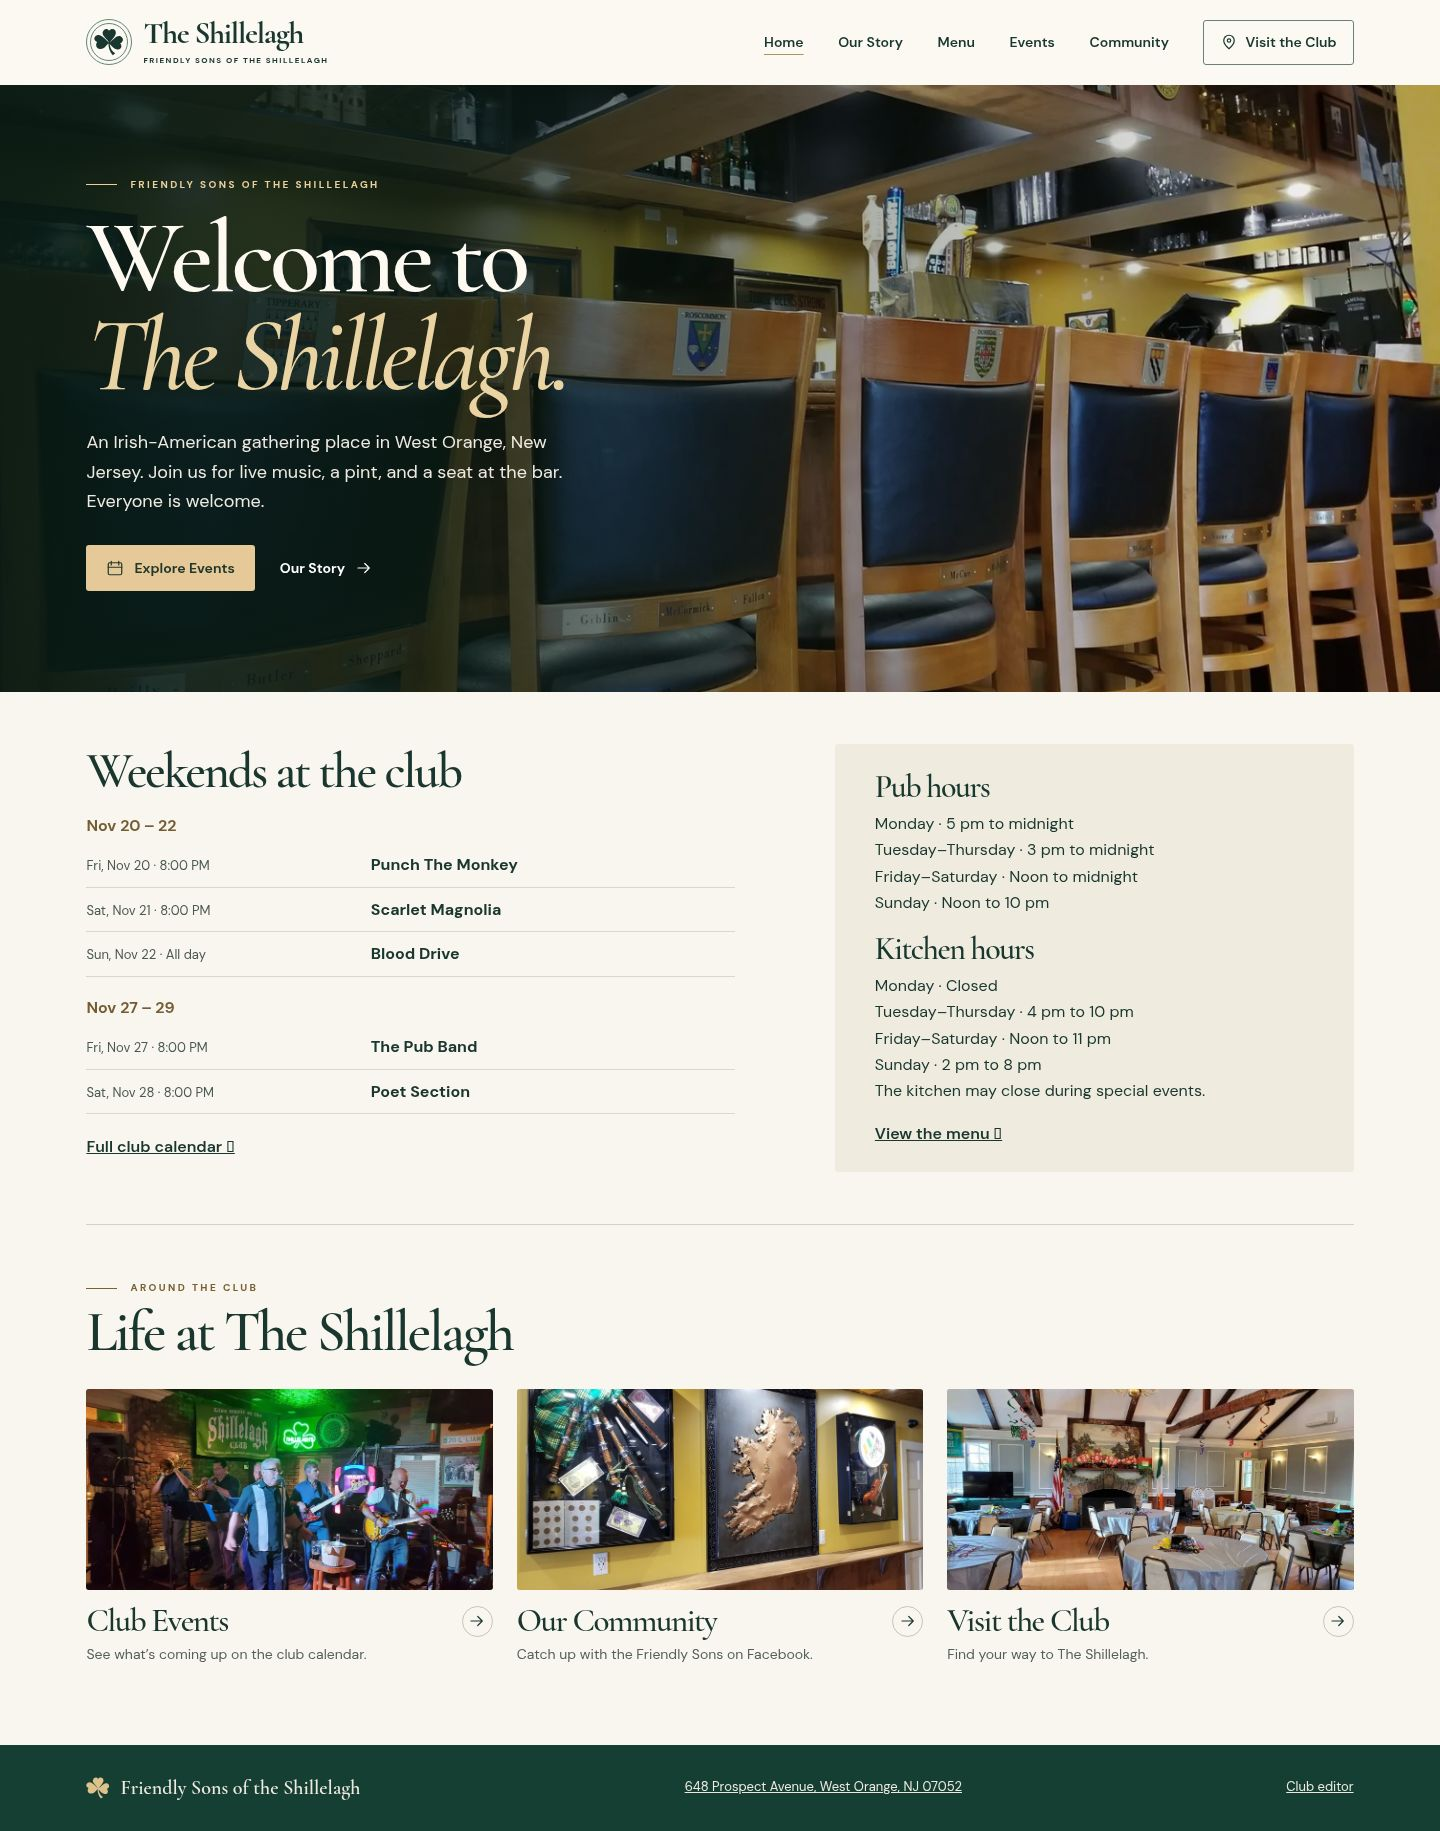
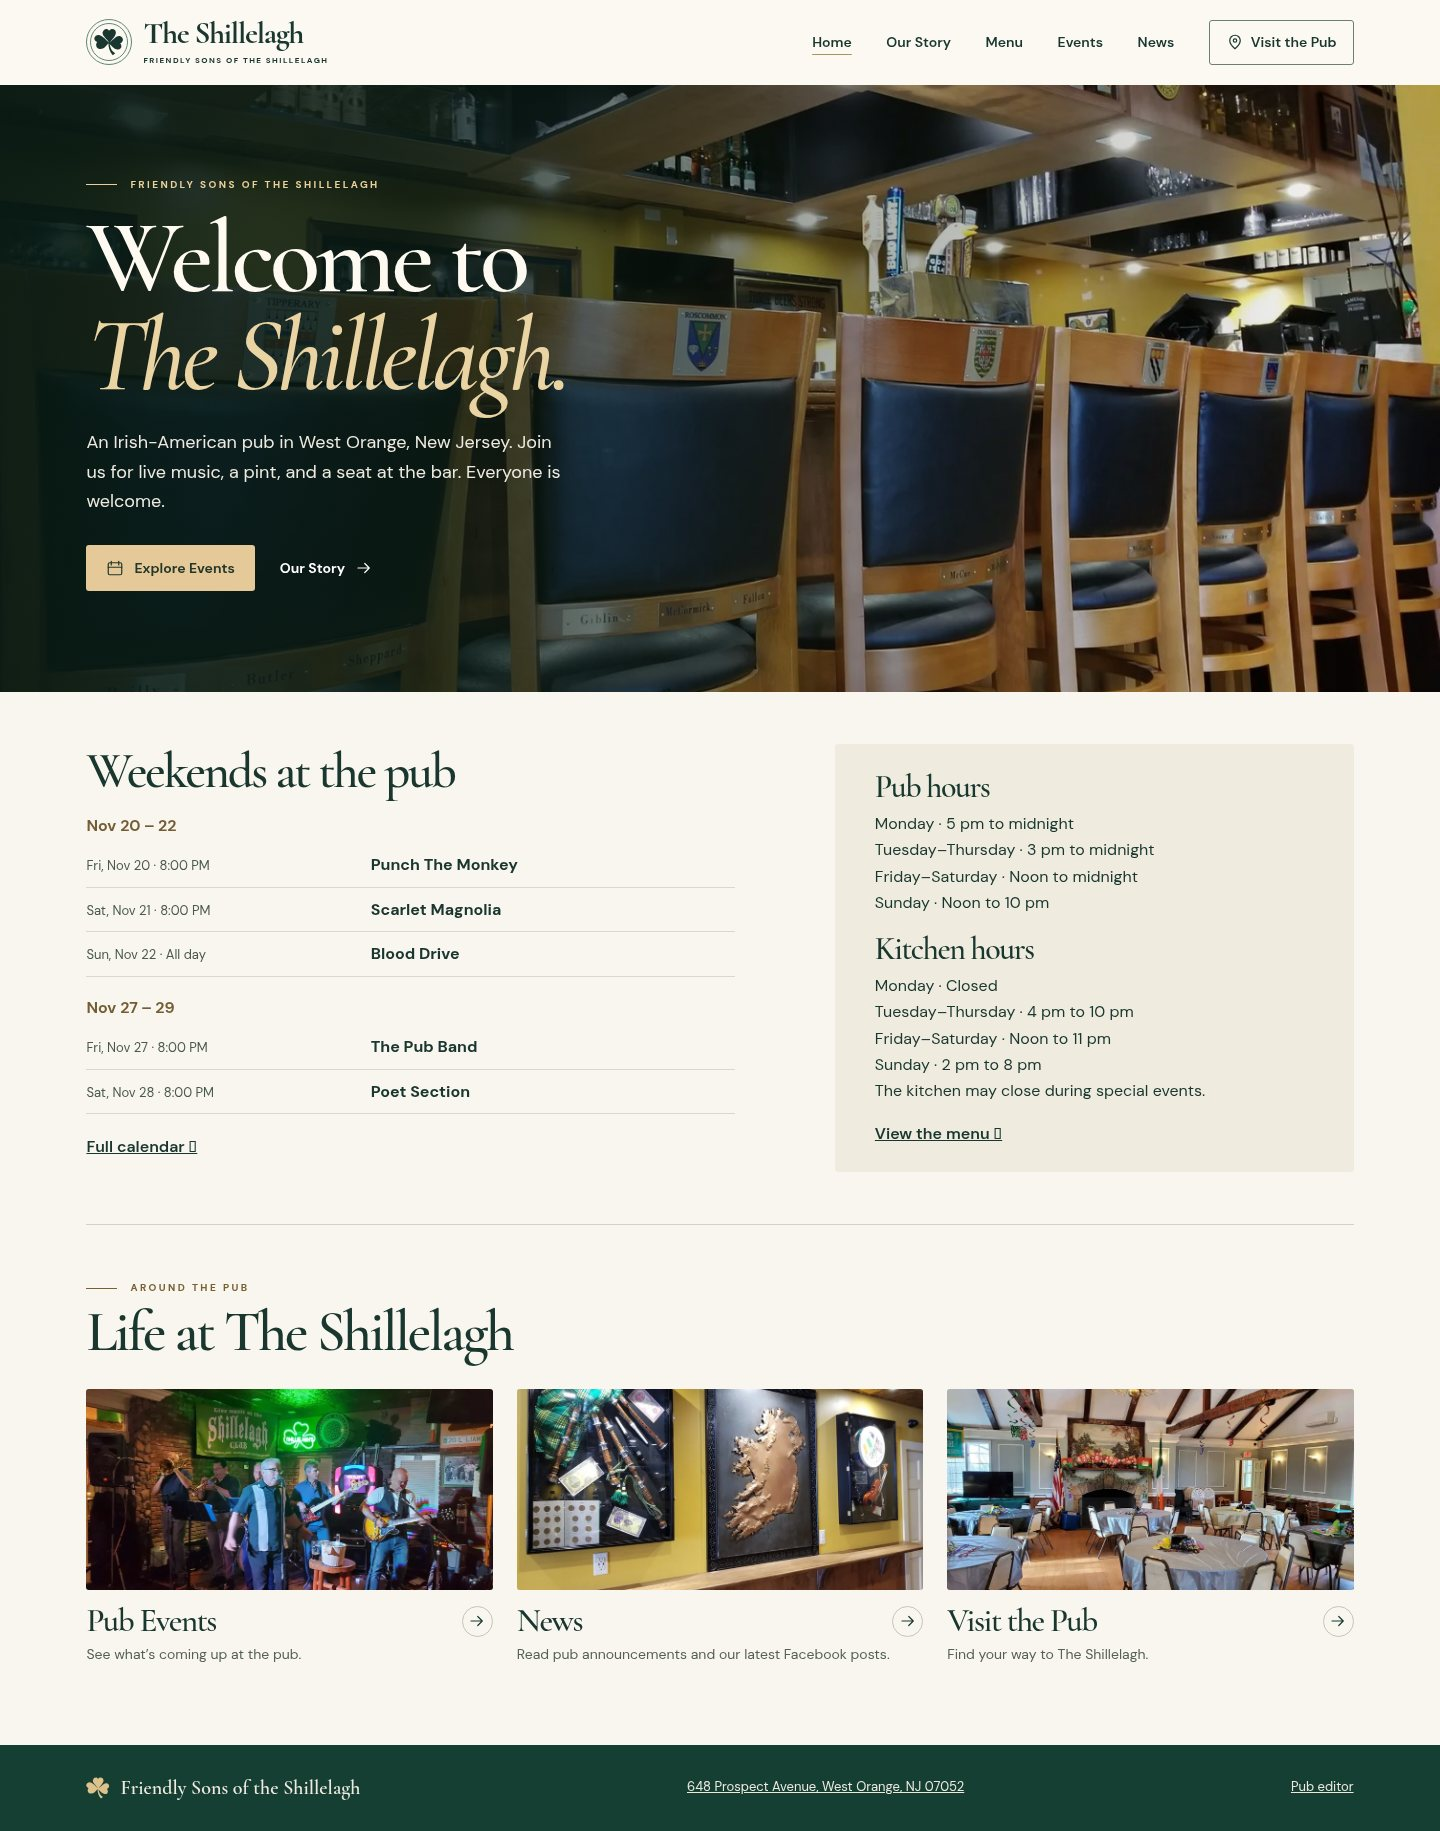
Use pub terminology across the website and volunteer editor

diff --git a/src/admin/index.html b/src/admin/index.html
@@ -5,7 +5,7 @@
   <meta name="viewport" content="width=device-width,initial-scale=1">
   <meta name="robots" content="noindex">
   <link rel="cms-config-url" type="text/yaml" href="./config.yml">
-  <title>The Shillelagh · Club editor</title>
+  <title>The Shillelagh · Pub editor</title>
 </head>
 <body>
   <script>

diff --git a/SPEC.md b/SPEC.md
@@ -1,6 +1,6 @@
 # The Shillelagh website specification
 
-The pub website serves visitors to the Essex Division clubhouse in West Orange. Visitors should be able to check the calendar, see recent pub news, plan a visit, and contact the pub about a gathering. Club volunteers can update the details and publish notices through Decap CMS.
+This website serves visitors to The Shillelagh, the public pub of the Friendly Sons of the Shillelagh, Essex Division, in West Orange. Visitors should be able to check the calendar, see recent pub news, plan a visit, and contact the pub about a gathering. Volunteer editors can update the details and publish notices through Decap CMS.
 
 ## Sources and editorial decisions
 
@@ -11,33 +11,35 @@ The pub website serves visitors to the Essex Division clubhouse in West Orange. 
 
 ## Design and content
 
+Use “pub” for the venue in navigation, headings, accessibility labels, and the volunteer editor. Name the Friendly Sons of the Shillelagh when describing the organization and its history. Published notices and imported posts use their authors’ wording.
+
 Use forest green, ivory, brass accents, locally bundled serif and sans-serif type, and an original shamrock mark. The homepage uses four photographs from the existing pub website, optimized for distribution. The hero shows the actual bar, with supporting images of a live performance, the clubhouse's Irish displays, and the upstairs hall. [Desktop design](docs/homepage.jpg) · [Bar](https://shillelaghpub.com/wp-content/uploads/2021/12/20190624_114802-scaled.jpg) · [Band](https://shillelaghpub.com/wp-content/uploads/2021/12/Big-Train-FSOS-scaled.jpg) · [Displays](https://shillelaghpub.com/wp-content/uploads/2021/12/20190624_115004-scaled.jpg) · [Hall](https://shillelaghpub.com/wp-content/uploads/2021/04/hall-new-years-resize2.jpg)
 
 ## Implementation and verification
 
-Eleventy builds Home, Our Story, Menu, Events, News, and Visit the Club at a root domain or project Pages path. Decap CMS manages visitor information, integration settings, homepage content, and notices. Google Calendar and Google Maps load directly from their providers. The sole listing URL for News is /news/. The listing groups pub announcements and recent Facebook posts under separate headings. Facebook posts are rendered as dated HTML with direct permalinks. The GitHub Actions workflow tests changes and deploys main to Pages.
+Eleventy builds Home, Our Story, Menu, Events, News, and Visit the Pub at a root domain or project Pages path. Decap CMS manages visitor information, integration settings, homepage content, and notices. Google Calendar and Google Maps load directly from their providers. The sole listing URL for News is /news/. The listing groups pub announcements and recent Facebook posts under separate headings. Facebook posts are rendered as dated HTML with direct permalinks. The GitHub Actions workflow tests changes and deploys main to Pages.
 
-The automated suite checks empty and populated settings, subpath routing, and notice publication. All three tests passed after the verified values were added. The production subpath build passed. The three actual embed URLs returned HTTP 200 with the expected club calendar, pub timeline, and mapped address. The public calendar feed also returned dated events. Chromium verified homepage imagery and the mobile route to the pub phone number. CMS sign-in requires an editor with repository access.
+The automated suite checks empty and populated settings, subpath routing, and notice publication. All three tests passed after the verified values were added. The production subpath build passed. The three actual embed URLs returned HTTP 200 with the expected pub calendar, pub timeline, and mapped address. The public calendar feed also returned dated events. Chromium verified homepage imagery and the mobile route to the pub phone number. Editors sign in through DecapBridge using an invited email address.
 
 ## Launch status
 
-The Eleventy workflow tested, built, and deployed the site to GitHub Pages. Live checks verified the homepage, Story, Events, Community, Visit, and the club editor, plus the nine referenced assets. The live Events, Community and Visit pages contain the confirmed club calendar, pub Facebook Page and West Orange address. [Published site](https://codehtmai.github.io/shillelaghpub_eleventy/) · [Verified workflow run](https://github.com/codehtmai/shillelaghpub_eleventy/actions/runs/44235442693/attempts/2)
+The Eleventy workflow tested, built, and deployed the site to GitHub Pages. Live checks verified the homepage, Story, Events, Community, Visit, and the pub editor, plus the nine referenced assets. The live Events, Community and Visit pages contain the confirmed pub calendar, pub Facebook Page and West Orange address. [Published site](https://codehtmai.github.io/shillelaghpub_eleventy/) · [Verified workflow run](https://github.com/codehtmai/shillelaghpub_eleventy/actions/runs/44235442693/attempts/2)
 
 At first deployment GitHub also ran its default branch-based Jekyll build, which failed. Selecting GitHub Actions as the Pages source avoids that redundant build. The existing pub domain awaits owner-approved cutover. [Pages settings](https://github.com/codehtmai/shillelaghpub_eleventy/settings/pages)
 
 
 ## Facebook reliability
 
-Visitors reported a blank or error area in the Facebook iframe even though the provider returned post data to an HTTP client. Replace the iframe with server-rendered posts that work with JavaScript disabled and Facebook requests blocked. Refresh the club’s existing published feed on deployment and every six hours. For continuity after the legacy site is retired, use a Page access token stored in GitHub Actions to read the official Graph API. Keep dated posts available if an upstream refresh fails. The confirmed pub source supplied three text posts for the initial snapshot.
+Visitors reported a blank or error area in the Facebook iframe even though the provider returned post data to an HTTP client. Replace the iframe with server-rendered posts that work with JavaScript disabled and Facebook requests blocked. Refresh the pub’s existing published feed on deployment and every six hours. For continuity after the legacy site is retired, use a Page access token stored in GitHub Actions to read the official Graph API. Keep dated posts available if an upstream refresh fails. The confirmed pub source supplied three text posts for the initial snapshot.
 
-Post photos are copied into the Pages artifact during refresh, including image-only posts. Visitors load them from the club site alongside each post.
+Post photos are copied into the Pages artifact during refresh, including image-only posts. Visitors load them from the pub site alongside each post.
 
 ## Homepage visitor information and menu
 
 The homepage uses the CMS pub and kitchen hours, and the shared footer links the CMS address to directions. Show the current or upcoming Friday–Sunday period and the following Friday–Sunday in the calendar’s local time. The Pages workflow reads the public Google iCalendar feed every six hours and renders dated lists, including recurring and all-day events. Keep the full calendar on Events. The Menu route preserves the original /menus/ URL and transcribes the old site's June 26, 2024 menu edition into editable dishes and prices. [Published menu source](https://shillelaghpub.com/menus/)
 
-## Club editor sign-in
+## Pub editor sign-in
 
-The GitHub Pages editor uses Decap CMS with the club’s DecapBridge Git Gateway and PKCE configuration. Volunteers use invited email addresses and the identity providers offered by DecapBridge. The club owner manages collaborator access in DecapBridge. The footer targets the registered /admin/index.html login address. Keep the public configuration and editing collections together; the repository access credential belongs in DecapBridge.
+The GitHub Pages editor uses Decap CMS with the pub’s DecapBridge Git Gateway and PKCE configuration. Volunteers use invited email addresses and the identity providers offered by DecapBridge. The site administrator manages collaborator access in DecapBridge. The footer targets the registered /admin/index.html login address. Keep the public configuration and editing collections together; the repository access credential belongs in DecapBridge.
 
 Notice images uploaded through the editor use site-root media paths in Markdown. Eleventy resolves those paths against the deployment prefix when rendering notice pages.

diff --git a/README.md b/README.md
@@ -1,6 +1,6 @@
 # The Shillelagh
 
-An Eleventy website for the Friendly Sons of the Shillelagh, with Decap CMS and DecapBridge and a GitHub Pages deployment workflow. The design, sources, and delivery status are in [SPEC.md](SPEC.md).
+An Eleventy website for The Shillelagh, the public pub of the Friendly Sons of the Shillelagh in West Orange, with Decap CMS and DecapBridge and a GitHub Pages deployment workflow. The design, sources, and delivery status are in [SPEC.md](SPEC.md).
 
 ## Run locally
 
@@ -17,9 +17,9 @@ Eleventy prints the development server address. The static output is in `_site/`
 
 ## Edit the site
 
-1. Accept the club’s DecapBridge invitation, then open **Club editor** in the footer. Click the login button and sign in using the invited email address with Google, Microsoft, or the method offered by DecapBridge.
-2. Open **Club website → Club information and integrations** to change the homepage, story, photograph, visiting details, or external services.
-3. For Google Calendar, make the club calendar public with event details visible. Under **Settings → Integrate calendar**, copy the Calendar ID. Enter that ID and the time zone in the editor.
+1. Accept your DecapBridge invitation, then open **Pub editor** in the footer. Click the login button and sign in using the invited email address with Google, Microsoft, or the method offered by DecapBridge.
+2. Open **Pub website → Pub information and integrations** to change the homepage, story, photograph, visiting details, or external services.
+3. For Google Calendar, make the pub calendar public with event details visible. Under **Settings → Integrate calendar**, copy the Calendar ID. Enter that ID and the time zone in the editor.
 4. Enter the public Facebook Page URL. The News page links directly to this Page. Dated posts are synchronized for the configured ShillelaghPub feed.
 5. Enter the complete street address including town, state and ZIP. This powers both the map and the directions link. Enter hours only when confirmed.
 6. For a standalone announcement, open **Pub announcements**, create a notice, and publish. It appears on News and has its own shareable page.
@@ -27,11 +27,11 @@ Eleventy prints the development server address. The static output is in `_site/`
 
 ### Manage editor access
 
-In the club’s DecapBridge dashboard, open the site and use **Manage collaborators** to invite or remove editors. The registered CMS login URL is `https://codehtmai.github.io/shillelaghpub_eleventy/admin/index.html`. The public PKCE and gateway endpoints are in `src/admin/config.yml`. Manage the repository credential in DecapBridge. When changing the public domain, update the CMS login URL in DecapBridge and the public site URL in the CMS configuration together.
+In the pub’s DecapBridge dashboard, open the site and use **Manage collaborators** to invite or remove editors. The registered CMS login URL is `https://codehtmai.github.io/shillelaghpub_eleventy/admin/index.html`. The public PKCE and gateway endpoints are in `src/admin/config.yml`. Manage the repository credential in DecapBridge. When changing the public domain, update the CMS login URL in DecapBridge and the public site URL in the CMS configuration together.
 
 ## Publish with GitHub Pages
 
-A repository administrator selects **Settings → Pages → Build and deployment → Source → GitHub Actions**. Push to main or run **Build and deploy the club website** from the Actions tab. Pull requests run the tests and build. The deployment job publishes the resulting artifact and reports the site URL. The workflow reads the Pages base path automatically.
+A repository administrator selects **Settings → Pages → Build and deployment → Source → GitHub Actions**. Push to main or run **Build and deploy the pub website** from the Actions tab. Pull requests run the tests and build. The deployment job publishes the resulting artifact and reports the site URL. The workflow reads the Pages base path automatically.
 
 Use the project Pages URL for acceptance testing. For the existing pub domain, the domain owner should verify the domain in GitHub, configure it in Pages, update the DNS records using GitHub's displayed instructions, and enable HTTPS once the certificate is available. Existing domain routing is independent of the code deployment.
 
@@ -45,6 +45,6 @@ Visitors read posts in the page HTML. No Facebook login, cookies, or embedded wi
 
 The default importer reads the public updates already published by the existing pub WordPress site. Before retiring that site, a Facebook Page administrator should provide a Meta Page access token for the pub Page (ID 431613724250812) with permission to read its posts (`pages_read_engagement`). A repository administrator stores it under **Settings → Secrets and variables → Actions** as a repository secret named `FACEBOOK_PAGE_ACCESS_TOKEN`, then runs the Pages workflow. The importer switches to the Graph API when the secret is present. Review the refresh step for success. Renew the token if Meta revokes or expires it.
 
-The importer publishes post text, dates, permalinks, and local copies of post photos. If a refresh fails, the workflow warns and reuses the previously published feed or the repository snapshot. Local builds use the snapshot. If the club switches Facebook Pages, update the importer's Page ID and URL along with the public CMS setting.
+The importer publishes post text, dates, permalinks, and local copies of post photos. If a refresh fails, the workflow warns and reuses the previously published feed or the repository snapshot. Local builds use the snapshot. If the pub switches Facebook Pages, update the importer's Page ID and URL along with the public CMS setting.
 
-The homepage and Visit page share the pub and kitchen hours in the club settings. Edit the food menu under **Club website → Pub menu** and update its edition date when changing prices. The homepage weekend preview uses the public iCalendar feed; the deployment refreshes it with the six-hour schedule. To refresh the local snapshot, run `node scripts/refresh-weekends.mjs`.
+The homepage and Visit page share the pub and kitchen hours in the pub settings. Edit the food menu under **Pub website → Pub menu** and update its edition date when changing prices. The homepage weekend preview uses the public iCalendar feed; the deployment refreshes it with the six-hour schedule. To refresh the local snapshot, run `node scripts/refresh-weekends.mjs`.
